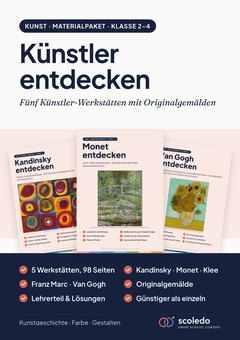
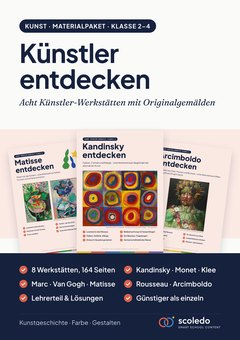
links: Künstler-Paket (8 Werkstätten) und 40 Kunststunden aktualisiert
Claude-Session: https://claude.ai/code/session_01M5UA2HdC27HC12fnTAnuGm

diff --git a/links/index.html b/links/index.html
@@ -87,10 +87,10 @@ h2 .count{font-weight:600;letter-spacing:0;text-transform:none;color:#8a93a3;mar
 <h2>Pakete · günstiger im Bundle</h2>
 <a class="card" href="https://eduki.com/de/material/2335169/kuenstler-entdecken-materialpaket-kunst-klasse-2-4-kandinsky-monet-klee-franz-marc-van-gogh">
 <img src="kuenstler-paket.jpg" alt="Cover: Künstler-Paket Klasse 2–4" width="64" height="91" loading="lazy">
-<span class="txt"><span class="t">🎨 Künstler-Paket Klasse 2–4</span><span class="s" style="display:block">Kandinsky, Monet, Klee, Franz Marc und Van Gogh</span><span class="pill">5 Werkstätten · günstiger im Paket</span></span><span class="arrow">→</span></a>
+<span class="txt"><span class="t">🎨 Künstler-Paket Klasse 2–4</span><span class="s" style="display:block">Kandinsky, Monet, Klee, Marc, Van Gogh, Matisse, Rousseau und Arcimboldo</span><span class="pill">8 Werkstätten · günstiger im Paket</span></span><span class="arrow">→</span></a>
 <a class="card" href="https://eduki.com/de/material/2351854/25-kunststunden-ohne-vorbereitung-materialpaket-kunst-klasse-2-4-kandinsky-monet-klee-franz-marc-van-gogh">
-<img src="kunststunden-paket.jpg" alt="Cover: 25 Kunststunden ohne Vorbereitung" width="64" height="91" loading="lazy">
-<span class="txt"><span class="t">🖌 25 Kunststunden ohne Vorbereitung</span><span class="s" style="display:block">Kandinsky, Monet, Klee, Franz Marc und Van Gogh · ideal für Vertretung</span><span class="pill">5 Sets · günstiger im Paket</span></span><span class="arrow">→</span></a>
+<img src="kunststunden-paket.jpg" alt="Cover: 40 Kunststunden ohne Vorbereitung" width="64" height="91" loading="lazy">
+<span class="txt"><span class="t">🖌 40 Kunststunden ohne Vorbereitung</span><span class="s" style="display:block">Acht Künstler von Kandinsky bis Arcimboldo · ideal für Vertretung</span><span class="pill">8 Sets · günstiger im Paket</span></span><span class="arrow">→</span></a>
 <a class="card" href="https://eduki.com/de/material/2326230/demokratie-paket-klasse-2-4-werkstatt-klassenrat-starterset-und-kinderrechte">
 <img src="demokratie-paket.jpg" alt="Cover: Demokratie-Paket Klasse 2–4" width="64" height="91" loading="lazy">
 <span class="txt"><span class="t">🗳 Demokratie-Paket Klasse 2–4</span><span class="s" style="display:block">Werkstatt, Klassenrat-Starterset und Kinderrechte</span><span class="pill">3 Materialien · günstiger im Paket</span></span><span class="arrow">→</span></a>
